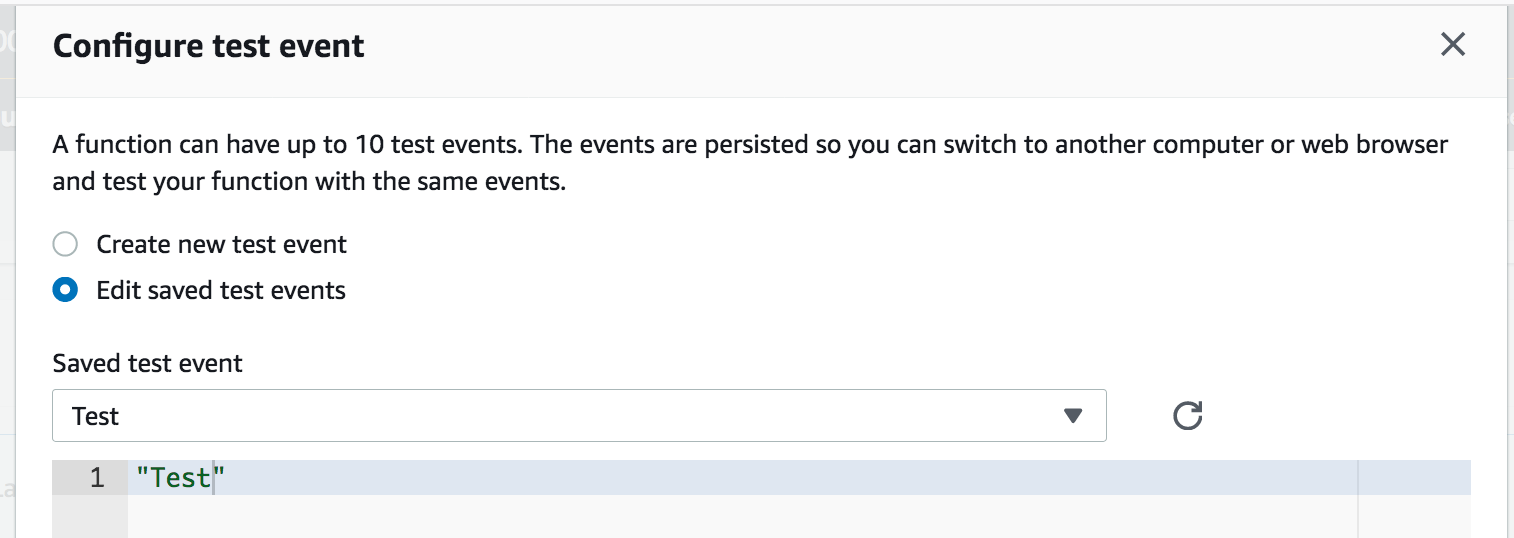
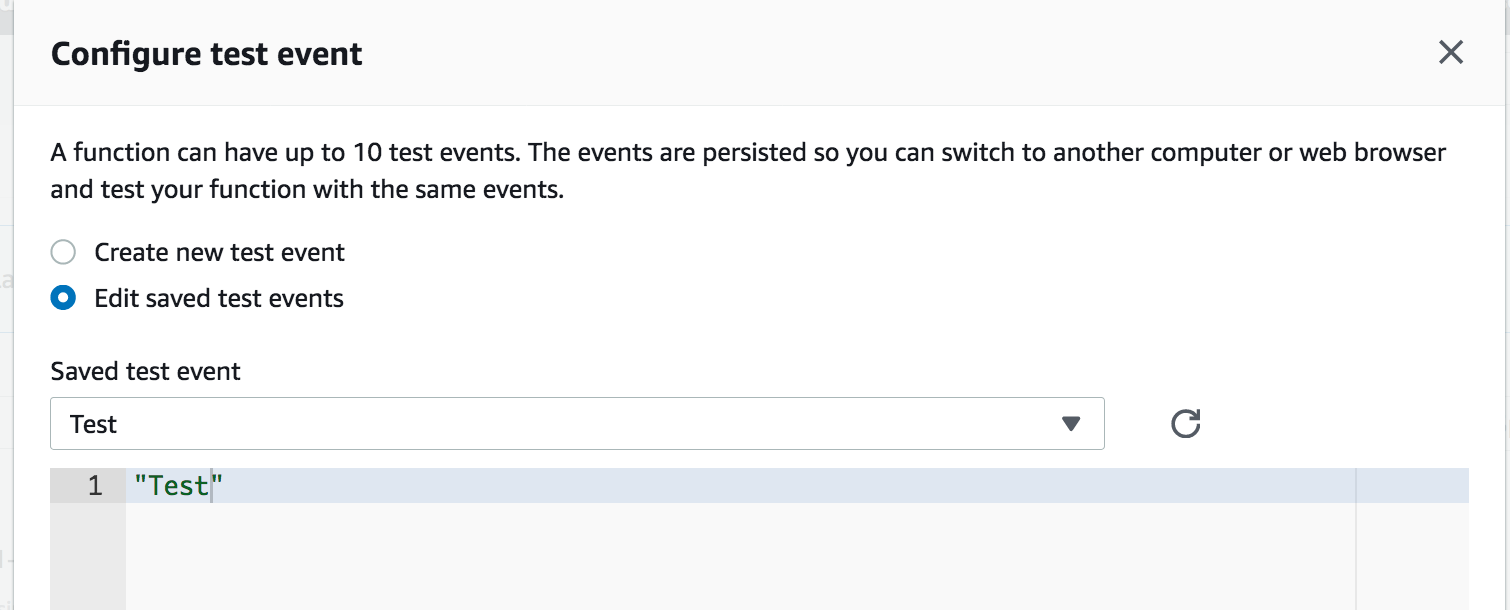
fixing docs images

diff --git a/README.md b/README.md
@@ -8,7 +8,7 @@ The example relies on the project Spring Cloud functions which is intented to de
 
 ## SpringBootLambdaHandler
 
-Entry point of the execution. This handler sets the spring context and delegates the core to a `java.util.function.Function` instance
+Entry point of the execution. This handler initializes the spring context and delegates the core to a `java.util.function.Function` instance
 
 ## Function implementation
 
@@ -96,4 +96,4 @@ Notice that is required to set the handler value with the full qualified name of
 
 Just define a test event with a string value through the console and test.
 
-![Alt Lambda function deployment](docs/aws-console-1.png?raw=true "Lambda function testing")
+![Alt Lambda function testing](docs/aws-console-2.png?raw=true "Lambda function testing")
